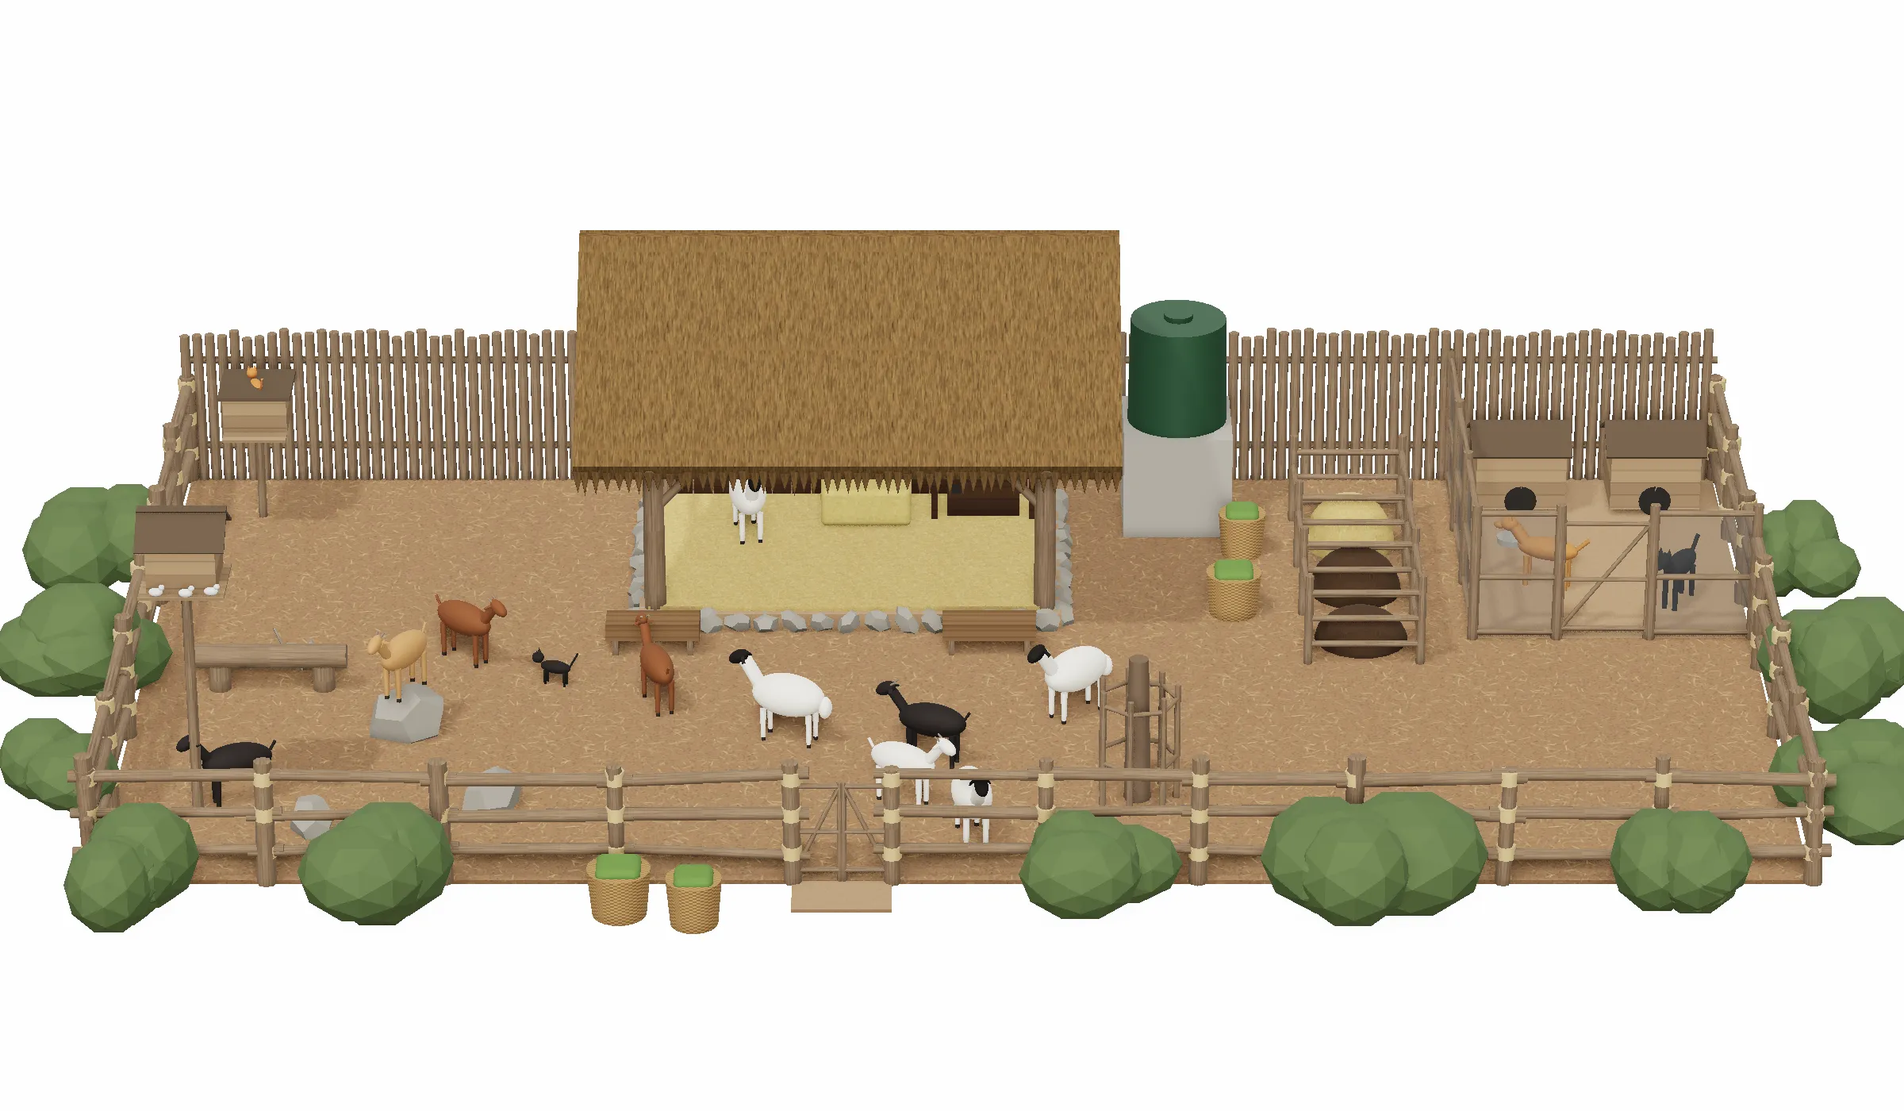
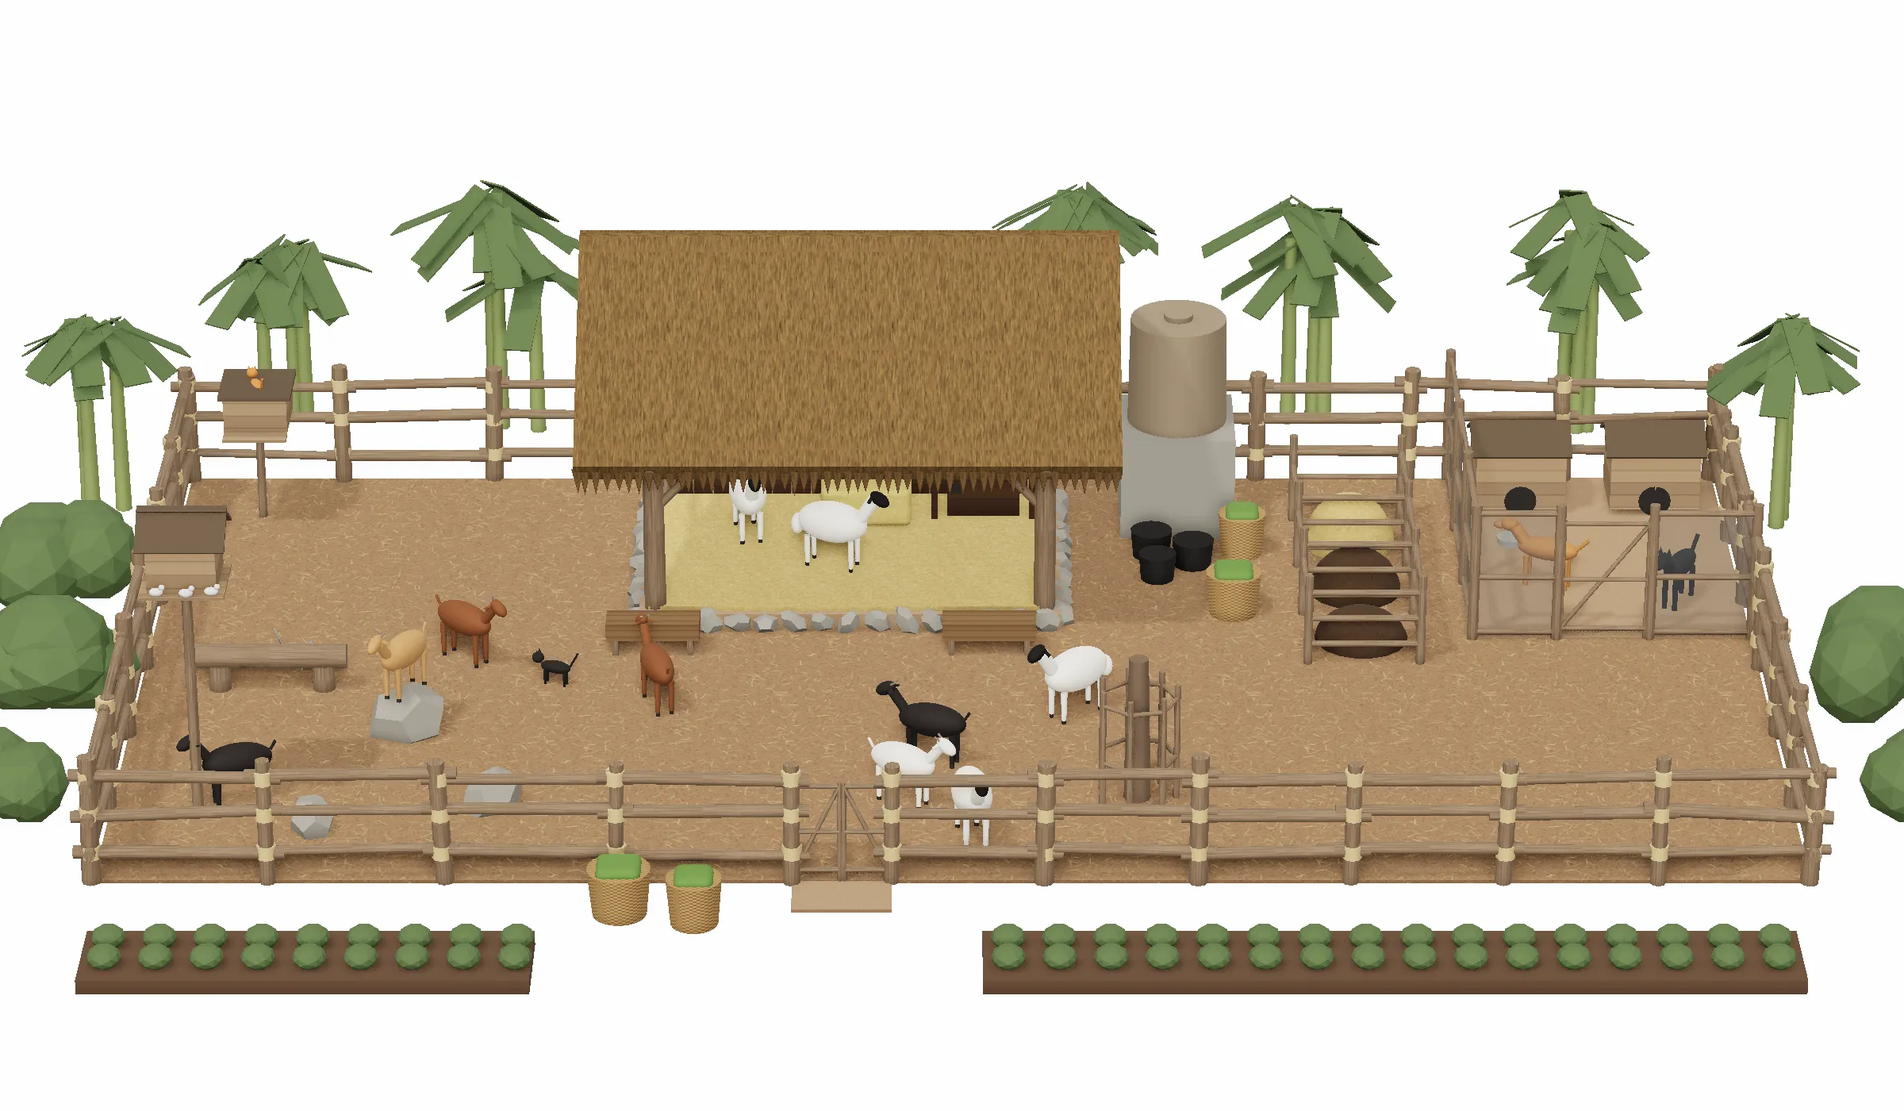
feat(livestock): the 2D and 3D follow the hero; D-047
The founder asked for the drawings to follow the hero: no palisade, one rail
fence all round, banana clumps and vegetable beds round the yard, the tank on a
stone base with three buckets, two sheep in the shed.

Claude-Session: https://claude.ai/code/session_01S6J7HfcfzMCDbDDKUuUjeQ

diff --git a/src/components/livestock/livestock-plan.tsx b/src/components/livestock/livestock-plan.tsx
@@ -2,12 +2,12 @@ import livestock from "./livestock.json"
 
 // The livestock yard drawn in the pattern of the studio's plan (public/designs/studio/render/plan.svg): solid walls
 // in black, fittings in thin outline, what is where named in one row above and only the two overall dimensions.
-// One outline holds it all (D-039): the palisade at the back, one post-and-rail fence round the rest. The herd's shed,
+// One outline holds it all (D-039, D-047): one post-and-rail fence all round, as in the hero. The herd's shed,
 // as the founder's photo's (D-044), opens down the page onto the village yard, toward the paddock and the viewer of
 // the 3D. Units are
 // metres, the shelter's centre at 0,0, y toward the yard. All in currentColor, so the page sets its colour.
 
-const { shelter, pens, fittings, yards, palisade, stones, tree, tank, baskets, compost, dogs, friends, planting } = livestock
+const { shelter, pens, fittings, yards, stones, tree, tank, baskets, compost, dogs, friends, planting } = livestock
 const WALL = 0.1 // the shed's boarded back and east end
 const FENCE = 0.04 // the rails along the shed's open west side
 const line = { fill: "none", stroke: "currentColor", strokeWidth: 0.9, vectorEffect: "non-scaling-stroke" } as const
@@ -76,18 +76,17 @@ export function LivestockPlan({ title, className }: { title: string; className?:
   const Y = yards.y1
   const { dovecote, cats, bench } = friends
   const yg = yards.gate, dg = dogs.gate
-  const edge = { x0: Math.min(...planting.shrubs.map((b) => b.x - b.r)), x1: Math.max(...planting.shrubs.map((b) => b.x + b.r)),
-    y1: Math.max(...planting.shrubs.map((b) => b.y + b.r)) } // the planting round the outline
+  const green = [...planting.shrubs, ...planting.bananas] // the planting round the outline
+  const edge = { x0: Math.min(...green.map((b) => b.x - b.r)), x1: Math.max(...green.map((b) => b.x + b.r)),
+    y0: Math.min(...green.map((b) => b.y - b.r)), y1: Math.max(...planting.beds.map((b) => b.y1)) }
   const x0 = edge.x0 - 0.3, x1 = edge.x1 + 0.75
-  const dimY = edge.y1 + 0.35, top = palisade.y - 0.6, bottom = dimY + 0.6
-  const row = palisade.y - 0.25 // the names, in one row above the palisade
+  const dimY = edge.y1 + 0.75, top = edge.y0 - 0.3, bottom = dimY + 0.6
+  const row = yards.y0 - 0.3 // the names, in one row above the back fence
   return (
     <svg viewBox={`${f(x0)} ${f(top)} ${f(x1 - x0)} ${f(bottom - top)}`} role="img" aria-label={title} className={className}>
-      {/* The outline: the palisade of upright poles at the back, one post-and-rail fence round the rest, one gate of
-          two leaves to the paddock */}
-      {Array.from({ length: Math.floor((palisade.x1 - palisade.x0) / 0.14) + 1 }, (_, k) => (
-        <circle key={k} cx={f(palisade.x0 + k * 0.14)} cy={palisade.y} r={0.06} {...solid} />
-      ))}
+      {/* The outline: one post-and-rail fence all round, open on the planting as in the hero, one gate of two leaves
+          to the paddock */}
+      <Fence x0={yards.x0} y0={yards.y0} x1={yards.x1} y1={yards.y0} />
       <Fence x0={yards.x0} y0={yards.y0} x1={yards.x0} y1={Y} />
       <Fence x0={yards.x0} y0={Y} x1={yg.x0} y1={Y} />
       <Fence x0={f(yg.x0 + yg.w)} y0={Y} x1={yards.x1} y1={Y} />
@@ -124,7 +123,7 @@ export function LivestockPlan({ title, className }: { title: string; className?:
       <circle cx={tree.x} cy={tree.y} r={tree.guard} {...line} />
       <circle cx={tree.x} cy={tree.y} r={0.13} {...solid} />
 
-      {/* The farm friends: the dovecote on its pole, the cats' house on a post by the palisade, a log bench */}
+      {/* The farm friends: the dovecote on its pole, the cats' house on a post by the back fence, a log bench */}
       <rect {...rect(dovecote.x - dovecote.s / 2, dovecote.y - dovecote.s / 2, dovecote.x + dovecote.s / 2, dovecote.y + dovecote.s / 2)} {...line} />
       <circle cx={dovecote.x} cy={dovecote.y} r={0.07} {...solid} />
       <rect {...rect(cats.house.x - cats.house.s / 2, cats.house.y - cats.house.s / 2, cats.house.x + cats.house.s / 2, cats.house.y + cats.house.s / 2)} {...line} />
@@ -134,6 +133,8 @@ export function LivestockPlan({ title, className }: { title: string; className?:
       {/* By the shed's east end: the tank, the fodder baskets, the three compost bays with their removable front rail
           (dashed) */}
       <circle cx={tank.x} cy={tank.y} r={tank.r} {...line} />
+      <rect {...rect(tank.x - tank.r - 0.08, tank.y - tank.r - 0.08, tank.x + tank.r + 0.08, tank.y + tank.r + 0.08)} {...fine} />
+      {tank.buckets.map((b) => <circle key={b.x + b.y} cx={b.x} cy={b.y} r={b.r} {...line} />)}
       {baskets.list.map((b) => (
         <g key={b.x}>
           <circle cx={b.x} cy={b.y} r={b.r} {...line} />
@@ -166,8 +167,26 @@ export function LivestockPlan({ title, className }: { title: string; className?:
       ))}
       <circle cx={dogs.bowl.x} cy={dogs.bowl.y} r={dogs.bowl.r} {...line} />
 
-      {/* The planting round the outside of the outline: shrubs, drawn as soft crowns (trees stand behind the palisade) */}
+      {/* The planting round the outside of the outline, as in the hero: shrubs as soft crowns, banana clumps as crowns of
+          leaves, and the vegetable beds outside the front with their rows */}
       {planting.shrubs.map((b) => <circle key={`${b.x}-${b.y}`} cx={b.x} cy={b.y} r={b.r} {...dashed} />)}
+      {planting.bananas.map((b) => (
+        <g key={`${b.x}-${b.y}`}>
+          {Array.from({ length: 6 }, (_, k) => {
+            const a = (k / 6) * Math.PI * 2 + 0.3
+            return <path key={k} d={`M${b.x} ${b.y}Q${f(b.x + Math.cos(a + 0.35) * b.r * 0.6)} ${f(b.y + Math.sin(a + 0.35) * b.r * 0.6)} ${f(b.x + Math.cos(a) * b.r)} ${f(b.y + Math.sin(a) * b.r)}`} {...fine} />
+          })}
+          <circle cx={b.x} cy={b.y} r={0.08} {...solid} />
+        </g>
+      ))}
+      {planting.beds.map((b) => (
+        <g key={b.x0}>
+          <rect {...box(b)} {...fine} />
+          {Array.from({ length: Math.floor((b.x1 - b.x0) / 0.5) }, (_, k) => [0.3, 0.7].map((t) => (
+            <circle key={`${k}-${t}`} cx={f(b.x0 + 0.25 + k * 0.5)} cy={f(b.y0 + (b.y1 - b.y0) * t)} r={0.16} {...fine} />
+          )))}
+        </g>
+      ))}
 
       {/* What is where, in one row above, as the studio's BED, SEATING, GALLEY, BATH; the rest in place */}
       {([
@@ -178,6 +197,7 @@ export function LivestockPlan({ title, className }: { title: string; className?:
       <text x={dovecote.x} y={f(dovecote.y + dovecote.s / 2 + 0.22)} textAnchor="middle" style={small}>DOVES</text>
       <text x={f((bench.x0 + bench.x1) / 2)} y={f(bench.y + 0.4)} textAnchor="middle" style={small}>BENCH</text>
       <text x={f(yg.x0 + yg.w / 2)} y={f(bottom - 0.12)} textAnchor="middle" style={small}>TO THE PADDOCK · GUESTS</text>
+      <text x={f((planting.beds[1].x0 + planting.beds[1].x1) / 2)} y={f(planting.beds[1].y1 + 0.3)} textAnchor="middle" style={small}>VEGETABLES</text>
 
       <Dimension x0={yards.x0} x1={yards.x1} y={f(dimY)} />
       <DimensionUp y0={yards.y0} y1={Y} x={f(edge.x1 + 0.4)} />

diff --git a/scripts/site/render/livestock.html b/scripts/site/render/livestock.html
@@ -2,14 +2,14 @@
 <!--
   /en/livestock's 3D, in the pattern of the studio's (scripts/studio/render/room.html): the livestock yard (D-039 to
   D-044) seen straight on from the paddock, on the white page. Built from src/components/livestock/livestock.json (the
-  numbers the 2D draws): one outline, the palisade at the back and one post-and-rail fence round the rest, its rails
+  numbers the 2D draws): one outline, one post-and-rail fence all round as in the hero (D-047), its rails
   thick, crooked and lashed with rope as the founder's photo's; inside it the herd's shed, copied from the photo's
   shed (D-045): dark weathered boards at the back and the east end, the west end open behind one rail, two heavy
   corner posts braced to the eaves beam, a steep shaggy thatch on the gable with its ends open on the rafters, and
   under it one sheep on the straw, a straw bale, a plank table with a basket over a lidded crate, the mineral boxes.
   The view is low enough to see under the eaves into the shed, as the photo does; the village yard with troughs, climbing stones, the
   guarded shade tree, the dovecote, the cats' house and a bench; the tank, the fodder baskets, the compost bays and
-  the guard dogs' run in the back east corner; shrubs round the outside. 6 goats, 4 sheep, 2 dogs, 3 cats and doves,
+  the guard dogs' run in the back east corner; shrubs and banana clumps round the outside, vegetable beds in front. 6 goats, 4 sheep, 2 dogs, 3 cats and doves,
   in soft overcast light. The page's hero is the founder's photo (D-042), not a render. Rendered three ways:
 
     ?mode=line  line drawing on a transparent ground   -> public/designs/livestock/render/livestock-line.png
@@ -152,7 +152,9 @@ function mat(name) {
       rope: () => std({ color: "#c2a874", roughness: 1 }),
       trough: () => std({ map: T.boards, color: "#c8b9a5", roughness: 0.85 }),
       water: () => new THREE.MeshPhysicalMaterial({ color: "#7aa6b8", roughness: 0.05, transparent: true, opacity: 0.7 }),
-      tank: () => std({ color: "#33503a", roughness: 0.5 }),
+      tank: () => std({ color: "#8a7963", roughness: 0.8 }), // earth-brown, as the hero's
+      stem: () => std({ color: "#7d8a52", roughness: 0.9 }),
+      soil: () => std({ color: "#5a4433", roughness: 1 }),
       mesh: () => std({ color: "#6b6e70", roughness: 0.6, metalness: 0.5, transparent: true, opacity: 0.35 }),
       roofing: () => std({ color: "#5a4a3a", roughness: 0.9 }),
       dogtan: () => std({ color: "#a8743f", roughness: 0.85 }),
@@ -228,7 +230,7 @@ function pipe(a, b, r, name, seg = 6) {
 const pole = (x, z, r, y0, y1, seg = 7) => cyl(x, z, r, y0, y1 - y0, "pole", seg, r * 0.92)
 
 // ------------------------------------------------------------ the plan
-const { shelter: S, pens: P, fittings: FT, yards: Y, palisade: PA, stones: ST, tree: TR, tank: TK,
+const { shelter: S, pens: P, fittings: FT, yards: Y, stones: ST, tree: TR, tank: TK,
   baskets: BK, compost: CO, dogs: DG, friends: FR, planting: PL, animals: AN } = C
 const L = S.l / 2, W = S.d / 2, WALL = S.wall
 const FL = S.plinth.h // the plinth's top, the pens' floor
@@ -330,8 +332,9 @@ function fence(x0, z0, x1, z1) {
     }
   }
 }
-{ // the outline: the palisade is its back; the post-and-rail round the west, the front with its gate, the east
+{ // the outline, as the hero's: one post-and-rail fence all round, the gate in the front
   const G = Y.gate
+  fence(Y.x0, Y.y0, Y.x1, Y.y0)
   fence(Y.x0, Y.y0, Y.x0, Y.y1)
   fence(Y.x0, Y.y1, G.x0, Y.y1)
   fence(G.x0 + G.w, Y.y1, Y.x1, Y.y1)
@@ -346,10 +349,6 @@ for (const t of FT.troughs) { // the float troughs in the shade of the eaves
   blk(t.x0, z0, t.x1, z1, h - 0.2, h, "trough")
   blk(t.x0 + 0.04, z0 + 0.04, t.x1 - 0.04, z1 - 0.04, h - 0.06, h - 0.03, "water", { noEdges: true })
 }
-
-// ------------------------------------------------------------ the palisade windbreak behind the shelter
-for (let x = PA.x0; x <= PA.x1 + 1e-6; x += 0.14) pole(x, PA.y, 0.06, 0, PA.h + (rnd() - 0.5) * 0.12, 7)
-rails(PA.x0, PA.y - 0.08, PA.x1, PA.y - 0.08, 0, [0.4, PA.h - 0.35], 0.04)
 
 // ------------------------------------------------------------ stones to climb, the shade tree in its guard
 const stoneTop = []
@@ -379,9 +378,10 @@ for (const s of ST.list) {
 // ------------------------------------------------------------ behind the store: the tank, the fodder baskets, the compost bays
 {
   const sh = TK.stand
-  blk(TK.x - TK.r - 0.05, TK.y - TK.r - 0.05, TK.x + TK.r + 0.05, TK.y + TK.r + 0.05, 0, sh, "block")
+  blk(TK.x - TK.r - 0.08, TK.y - TK.r - 0.08, TK.x + TK.r + 0.08, TK.y + TK.r + 0.08, 0, sh, "stone") // a fieldstone base, as the hero's
   cyl(TK.x, TK.y, TK.r, sh, TK.h, "tank", 32, TK.r * 0.96)
   cyl(TK.x, TK.y, 0.16, sh + TK.h, 0.06, "tank", 16)
+  for (const b of TK.buckets) cyl(b.x, b.y, b.r, 0, 0.32, "dogblack", 18, b.r * 1.15) // the black buckets
   for (const b of BK.list) {
     cyl(b.x, b.y, b.r * 0.85, 0, 0.5, "basket", 24, b.r)
     if (!LINE) soft(b.x - b.r * 0.7, b.y - b.r * 0.7, b.x + b.r * 0.7, b.y + b.r * 0.7, 0.36, 0.58, 0.08, "fodder")
@@ -544,7 +544,7 @@ for (const [dx, dz] of [[-0.25, 0.4], [0.05, 0.42], [0.3, 0.38]]) {
   ellipsoid(V.x + dx + 0.06, FRT.dove + 0.14, V.y + dz, 0.03, 0.03, 0.03, "dove")
 }
 
-// ------------------------------------------------------------ the planting round the outline: shrubs, and trees behind the palisade
+// ------------------------------------------------------------ the planting round the outline, as the hero's: shrubs, banana clumps, the vegetable beds outside the front
 seed = 41
 function bush(x, z, r, y0, name = "leaf") {
   for (let k = 0; k < 4; k++) {
@@ -553,6 +553,24 @@ function bush(x, z, r, y0, name = "leaf") {
   }
 }
 for (const b of PL.shrubs) bush(b.x, b.y, b.r, 0)
+for (const b of PL.bananas) { // a clump: three pseudo-stems, each crowned with long arching leaves
+  for (let k = 0; k < 3; k++) {
+    const x = b.x + (rnd() - 0.5) * b.r * 0.6, z = b.y + (rnd() - 0.5) * b.r * 0.6, h = 1.6 + rnd() * 0.8
+    cyl(x, z, 0.09, 0, h, "stem", 8, 0.07).userData.noFrame = true
+    for (let l = 0; l < 6; l++) {
+      const a = (l / 6) * Math.PI * 2 + rnd(), len = b.r * (0.9 + rnd() * 0.4)
+      const leaf = add(new THREE.BoxGeometry(len, 0.02, 0.32), "leaf", { pos: [x + Math.cos(a) * len * 0.45, h + 0.15, z + Math.sin(a) * len * 0.45], noFrame: true, noEdges: LINE })
+      leaf.rotation.set(0, -a, -0.45 - rnd() * 0.3)
+    }
+  }
+}
+for (const b of PL.beds) { // a raised bed of soil, two rows of cabbages and greens
+  blk(b.x0, b.y0, b.x1, b.y1, 0, 0.15, "soil", { noFrame: true })
+  for (let x = b.x0 + 0.25; x < b.x1 - 0.1; x += 0.5) for (const t of [0.3, 0.7]) {
+    const m = add(new THREE.IcosahedronGeometry(0.17, 1), "leaf", { pos: [x, 0.25, b.y0 + (b.y1 - b.y0) * t], noFrame: true })
+    m.scale.set(1, 0.7, 1)
+  }
+}
 if (HERO) for (const t of PL.trees) { cyl(t.x, t.y, 0.12, 0, 2.6, "trunk", 10, 0.09); bush(t.x, t.y, t.r, 2.2) } // at eye level only, as the crown
 
 // ------------------------------------------------------------ camera

diff --git a/src/app/en/livestock/page.tsx b/src/app/en/livestock/page.tsx
@@ -30,15 +30,15 @@ export default function LivestockPage() {
 
       {/* 2D, full screen: the house's plan (src/components/livestock/livestock-plan.tsx), in the text colour. */}
       <DrawingSection id="plans" title="2D">
-        <LivestockPlan title="Plan: one outline 17,200 by 9,600 mm, a pole palisade at the back and a post-and-rail fence round the rest with one gate to the paddock. Inside, the herd’s shed copied from the founder’s photo, 4,400 by 3,000 mm under a thatched gable on a low fieldstone plinth: a boarded back and east end, the west end open behind one rail, the front open between two braced corner posts; inside a straw bale, a plank table with a basket over a lidded crate, and the two mineral boxes. The village yard for the herd, the cats, the doves and the guests, with troughs, climbing stones, a shade tree, a log bench, a dovecote and a cats’ house on posts; by the shed the tank, fodder baskets and three compost bays, and the guard dogs’ run with two kennels in the back east corner; shrubs round the outside."
+        <LivestockPlan title="Plan: one outline 17,200 by 9,600 mm, a post-and-rail fence all round with one gate to the paddock. Inside, the herd’s shed copied from the founder’s photo, 4,400 by 3,000 mm under a thatched gable on a low fieldstone plinth: a boarded back and east end, the west end open behind one rail, the front open between two braced corner posts; inside a straw bale, a plank table with a basket over a lidded crate, and the two mineral boxes. The village yard for the herd, the cats, the doves and the guests, with troughs, climbing stones, a shade tree, a log bench, a dovecote and a cats’ house on posts; by the shed the tank on its stone base with three buckets, fodder baskets and three compost bays, and the guard dogs’ run with two kennels in the back east corner; banana clumps and shrubs round the outside and two vegetable beds in front."
           className="h-auto w-full lg:h-full lg:w-auto" />
       </DrawingSection>
 
       {/* 3D, in the 2D section's pattern: the yard seen straight on from the paddock with the roof off, as a line
           drawing, then rendered. Both from scripts/site/render/livestock.html. */}
       <ModelSection line={`${D}/render/livestock-line.png`} real={`${D}/render/livestock-real.webp`} width={2400} height={1400}
-        lineAlt="Line drawing of the livestock yard from the paddock: one outline, the palisade behind and a crooked post-and-rail fence round the rest with a two-leaf gate; the shed as in the founder’s photo, its steep thatched gable over a boarded back and side and two braced corner posts, one sheep inside by a straw bale and a table; goats and sheep in the yard, one goat on a stone, troughs, a bench, the dovecote and the cats’ house on posts, three cats, the guarded tree; the tank, the baskets, the compost bays and the dogs’ run with two kennels in the back corner."
-        realAlt="The same view rendered: the shed of dark weathered boards and heavy barked posts under a shaggy grey-brown thatch with a ragged fringe, one white sheep on golden straw by a straw bale and a plank table with a basket; thick crooked rails lashed with rope round red-brown earth and straw; brown, black, tan and white goats and white sheep with black faces, a ginger cat on its house and a grey and a black cat, doves on the dovecote, a green tank, baskets of green fodder, the compost bays and a tan and a black dog in their run." />
+        lineAlt="Line drawing of the livestock yard from the paddock: one crooked post-and-rail fence all round with a two-leaf gate, banana clumps behind; the shed as in the hero, its steep thatched gable over a boarded back and side and two braced corner posts, two sheep inside by a straw bale and a table; goats and sheep in the yard, one goat on a stone, troughs, a bench, the dovecote and the cats’ house on posts, three cats, the guarded tree; the tank on its stone base with three buckets, the baskets, the compost bays and the dogs’ run with two kennels; two vegetable beds in front."
+        realAlt="The same view rendered: banana plants behind a fence of thick crooked rails lashed with rope; the shed of dark weathered boards and heavy barked posts under a shaggy thatch, two white sheep on golden straw; goats and black-headed sheep on red-brown earth and straw, a ginger cat on its house, doves on the dovecote, an earth-brown tank on a stone base with three black buckets, baskets of green fodder, the compost bays, a tan and a black dog in their run, and two beds of cabbages outside the front." />
     </main>
   )
 }

diff --git a/src/lib/design-blur.generated.ts b/src/lib/design-blur.generated.ts
@@ -11,7 +11,7 @@ export const DESIGN_BLUR: Record<string, string> = {
[8 lines of base64/hex data omitted]

diff --git a/study/execution/decision-log.md b/study/execution/decision-log.md
@@ -168,3 +168,6 @@ Context: the founder asked for the shed to look exactly like the one in the refe
 
 **D-046 · 2026-10-29 · The /en/livestock hero is the founder's Nano Banana remake on the farm.**
 Context: the founder generated the handoff's remake (`~/Desktop/livestock-nano-banana`) and asked to use it, then swapped in a second take the same day ("Rustic Livestock Yard in Hilly Countryside"), the yard open on the hills without the palisade. Decision: `public/designs/livestock/render/livestock-hero.jpg` is that image, served at its native 1678 x 937 (no upscale; original kept at `assets/livestock/hero-gemini.png`, gitignored). It keeps the reference photo's shed, rails and baskets and sets them in Rwanda's terraced green hills with eucalyptus and banana plants, with the yard's herd, the sheep in the shed, the dovecote, the cats' house, the tank, the compost bays and the dogs' kennels: it replaces D-042's photo, whose temple buildings were not Rwanda's, and settles D-042's open question of the photo's source. It is a concept image of the planned yard, not a photograph of the site, which is unconfirmed; like the studio's hero (D-018) it carries no badge.
+
+**D-047 · 2026-10-29 · The livestock 2D and 3D follow the hero: no palisade, banana clumps and vegetable beds round the yard, the tank on stone, two sheep in the shed.**
+Context: the founder asked for the 2D and the 3D to follow the hero (D-046). Decision: `src/components/livestock/livestock.json` drops the palisade; the outline is one post-and-rail fence all round, open on the planting. Banana clumps stand behind the back fence and at the sides, shrubs along the sides, and two vegetable beds of cabbages and greens outside the front fence, where the herd cannot reach. The tank stands on a fieldstone base, earth-brown, with three black buckets beside it. Two sheep stand in the shed, as in the hero. The rest is unchanged (D-039 to D-045). Without the palisade the yard loses its windbreak: the back fence and the banana clumps are the only shelter on that side [A].
